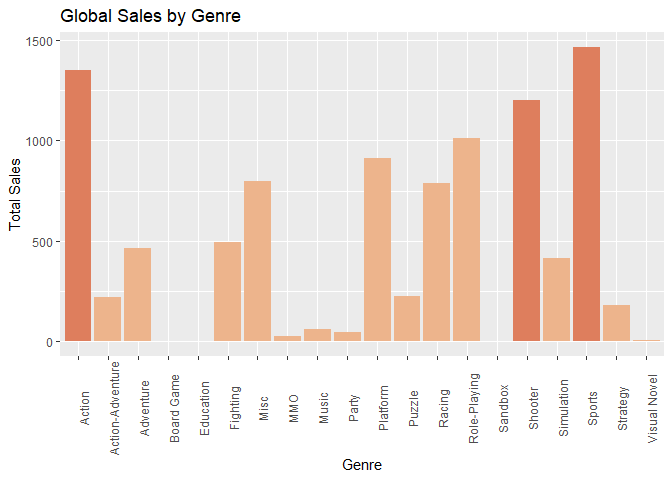
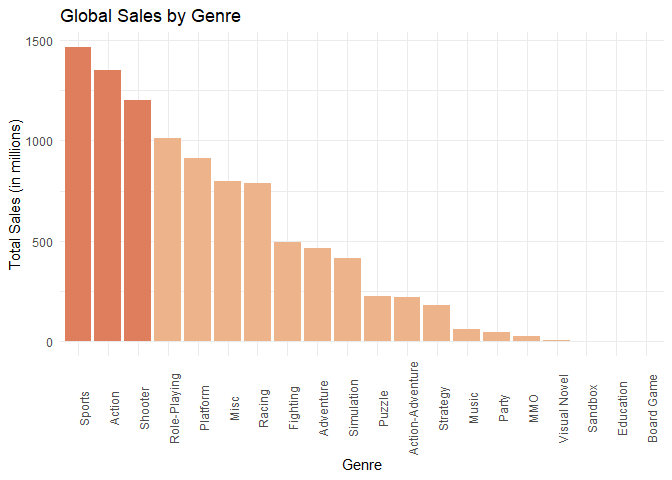
updated Global Sales by Genre graph

diff --git a/README.md b/README.md
@@ -269,15 +269,21 @@ q1_genre
 
 ``` r
 highlight_colors <- c(
-  "yes"  = "#de7e5d",  # Pastel red
-  "no"      = "#edb48c"  # Pastel blue
+  "yes" = "#de7e5d",    # Pastel red
+  "no"  = "#edb48c"     # Pastel peach
 )
 
-q1_data %>% mutate(highlight = if_else(Genre %in% c("Sports", "Action", "Shooter"), "yes", "no")) %>% ggplot( aes(x = Genre, weight= Global_Sales, fill=highlight)) +
-  geom_bar(show.legend = FALSE) +
+q1_data %>%
+  mutate(highlight = if_else(Genre %in% c("Sports", "Action", "Shooter"), "yes", "no")) %>%
+  group_by(Genre, highlight) %>%
+  summarise(total_sales = sum(Global_Sales, na.rm = TRUE), .groups = "drop") %>%
+  ggplot(aes(x = reorder(Genre, -total_sales), y = total_sales, fill = highlight)) +
+  geom_bar(stat = "identity", show.legend = FALSE) +
   scale_fill_manual(values = highlight_colors) +
+  theme_minimal() +
   theme(axis.text.x = element_text(angle = 90)) +
-  ylab("Total Sales") + 
+  xlab("Genre") +
+  ylab("Total Sales (in millions)") +
   ggtitle("Global Sales by Genre")
 ```
 
@@ -318,7 +324,7 @@ genre_reigon_sales <- q1_data %>%
   )
 
 highlight_colors <- c(
-  "yes"  = "#de7e5d",  # Pastel red
+  "yes"  = "#de7e5d",    # Pastel red
   "no"      = "#edb48c"  # Pastel blue
 )
 
